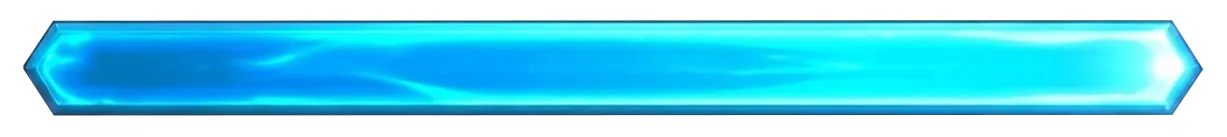
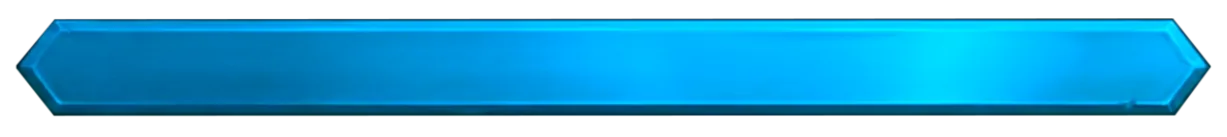
deterministic

diff --git a/crates/shared/src/intent.rs b/crates/shared/src/intent.rs
@@ -36,22 +36,22 @@ fn build_attack_frontier(
     game: &GameState,
     player_id: u16,
     target_owner: u16,
+    border_tiles: &[(u32, u32)],
     rng: &mut PseudoRandom,
     insert_seq_counter: &mut u32,
 ) -> BinaryHeap<PrioritizedTile> {
     let mut to_conquer = BinaryHeap::new();
-    let player = game.player(player_id).expect("Player should exist");
-    for (bx, by) in player.border_tiles.iter().copied() {
-        for (nx, ny) in game.map.neighbors(bx, by) {
+    for (bx, by) in border_tiles.iter().copied() {
+        game.map.for_each_neighbor(bx, by, |nx, ny| {
             if game.map.owner_id(nx, ny) != target_owner {
-                continue;
+                return;
             }
-            let num_owned_by_me = game
-                .map
-                .neighbors(nx, ny)
-                .into_iter()
-                .filter(|(nnx, nny)| game.map.owner_id(*nnx, *nny) == player_id)
-                .count() as u32;
+            let mut num_owned_by_me = 0u32;
+            game.map.for_each_neighbor(nx, ny, |nnx, nny| {
+                if game.map.owner_id(nnx, nny) == player_id {
+                    num_owned_by_me += 1;
+                }
+            });
 
             let terrain = game.map.terrain_type(nx, ny);
             let mag_x2 = match terrain {
@@ -74,7 +74,7 @@ fn build_attack_frontier(
                 x: nx,
                 y: ny,
             });
-        }
+        });
     }
     to_conquer
 }
@@ -195,7 +195,15 @@ fn apply_attack_intent(
             .wrapping_add(intent_index as u64),
     );
     let mut initial_seq = 0;
-    let fresh = build_attack_frontier(game, player_id, target_owner, &mut rng, &mut initial_seq);
+    let border_tiles = game.map.border_tiles_of(player_id);
+    let fresh = build_attack_frontier(
+        game,
+        player_id,
+        target_owner,
+        &border_tiles,
+        &mut rng,
+        &mut initial_seq,
+    );
 
     if fresh.is_empty() {
         if let Some(p) = game.players.iter_mut().find(|p| p.id == player_id) {
@@ -286,16 +294,15 @@ pub fn system_bot_think(
             continue;
         }
 
-        if player.border_tiles.is_empty() {
-            continue;
-        }
+        let border_tiles = game.map.border_tiles_of(bot_id);
+        if border_tiles.is_empty() { continue; }
 
         let mut has_neutral = false;
         let mut player_targets = Vec::new();
 
         // Terra Nullius Pacifism: Scan entire perimeter for ANY empty land
-        for &(bx, by) in &player.border_tiles {
-            for (nx, ny) in game.map.neighbors(bx, by) {
+        for &(bx, by) in &border_tiles {
+            game.map.for_each_neighbor(bx, by, |nx, ny| {
                 let owner = game.map.owner_id(nx, ny);
                 if owner != bot_id {
                     if owner == 0 {
@@ -304,7 +311,7 @@ pub fn system_bot_think(
                         player_targets.push(owner);
                     }
                 }
-            }
+            });
         }
 
         // OpenFront AI Algorithm Port:

diff --git a/crates/shared/src/map.rs b/crates/shared/src/map.rs
@@ -90,6 +90,22 @@ impl GameMap {
         self.state[r] = (self.state[r] & !Self::PLAYER_ID_MASK) | (player_id & Self::PLAYER_ID_MASK);
     }
 
+    /// Visit each 4-connected neighbor (up, down, left, right) without allocations.
+    pub fn for_each_neighbor(&self, x: u32, y: u32, mut f: impl FnMut(u32, u32)) {
+        if x > 0 {
+            f(x - 1, y);
+        }
+        if x + 1 < self.width {
+            f(x + 1, y);
+        }
+        if y > 0 {
+            f(x, y - 1);
+        }
+        if y + 1 < self.height {
+            f(x, y + 1);
+        }
+    }
+
     /// Get 4-connected neighbors (up, down, left, right) of a tile.
     pub fn neighbors(&self, x: u32, y: u32) -> Vec<(u32, u32)> {
         let mut result = Vec::with_capacity(4);
@@ -106,12 +122,13 @@ impl GameMap {
         if self.owner_id(x, y) != player_id {
             return false;
         }
-        for (nx, ny) in self.neighbors(x, y) {
-            if self.owner_id(nx, ny) != player_id {
-                return true;
+        let mut is_border = false;
+        self.for_each_neighbor(x, y, |nx, ny| {
+            if !is_border && self.owner_id(nx, ny) != player_id {
+                is_border = true;
             }
-        }
-        false
+        });
+        is_border
     }
 
     /// Get all border tiles of a specific player.
@@ -139,11 +156,12 @@ impl GameMap {
 
     /// Check if a tile is adjacent to territory owned by `player_id`.
     pub fn is_adjacent_to_player(&self, x: u32, y: u32, player_id: u16) -> bool {
-        for (nx, ny) in self.neighbors(x, y) {
-            if self.owner_id(nx, ny) == player_id {
-                return true;
+        let mut adjacent = false;
+        self.for_each_neighbor(x, y, |nx, ny| {
+            if !adjacent && self.owner_id(nx, ny) == player_id {
+                adjacent = true;
             }
-        }
-        false
+        });
+        adjacent
     }
 }

diff --git a/crates/shared/src/game.rs b/crates/shared/src/game.rs
@@ -106,9 +106,6 @@ impl GameState {
                 p.sum_x = p.sum_x.saturating_sub(x as u64);
                 p.sum_y = p.sum_y.saturating_sub(y as u64);
                 p.tile_count = p.tile_count.saturating_sub(1);
-                if let Some(pos) = p.border_tiles.iter().position(|&t| t == (x, y)) {
-                    p.border_tiles.swap_remove(pos);
-                }
             }
         }
 
@@ -122,42 +119,6 @@ impl GameState {
         }
 
         self.map.set_owner_id(x, y, new_owner);
-
-        // Update border cache without allocations
-        let coords = [
-            (x as i32, y as i32),
-            (x as i32, y as i32 - 1),
-            (x as i32, y as i32 + 1),
-            (x as i32 - 1, y as i32),
-            (x as i32 + 1, y as i32),
-        ];
-
-        let mut updates: Vec<(u16, u32, u32, bool)> = Vec::with_capacity(5);
-        for (cx, cy) in coords {
-            if self.map.is_valid_coord(cx, cy) {
-                let ux = cx as u32;
-                let uy = cy as u32;
-                let owner = self.map.owner_id(ux, uy);
-                if owner != 0 {
-                    let is_border = self.map.is_border_tile(ux, uy, owner);
-                    updates.push((owner, ux, uy, is_border));
-                }
-            }
-        }
-        
-        for (owner, ux, uy, is_border) in updates {
-            if let Some(p) = self.player_mut(owner) {
-                if is_border {
-                    if !p.border_tiles.contains(&(ux, uy)) {
-                        p.border_tiles.push((ux, uy));
-                    }
-                } else {
-                    if let Some(pos) = p.border_tiles.iter().position(|&t| t == (ux, uy)) {
-                        p.border_tiles.swap_remove(pos);
-                    }
-                }
-            }
-        }
     }
 
 }

diff --git a/crates/shared/src/execution.rs b/crates/shared/src/execution.rs
@@ -231,19 +231,19 @@ pub fn system_attack_execution(
                 // Troops were reserved on intent; only drain execution pool per tile (OpenFront).
 
                 // Enqueue new neutral/enemy neighbors that touch our newly acquired tile
-                for (nx, ny) in game.map.neighbors(target_tile.x, target_tile.y) {
+                game.map.for_each_neighbor(target_tile.x, target_tile.y, |nx, ny| {
                     // It must belong to target
                     if game.map.owner_id(nx, ny) != execution.target_owner {
-                        continue;
+                        return;
                     }
 
                     // How many tiles bordering (nx, ny) are owned by the attacker?
                     let mut num_owned_by_me = 0;
-                    for (nnx, nny) in game.map.neighbors(nx, ny) {
+                    game.map.for_each_neighbor(nx, ny, |nnx, nny| {
                         if game.map.owner_id(nnx, nny) == execution.owner_id {
                             num_owned_by_me += 1;
                         }
-                    }
+                    });
 
                     let terrain = game.map.terrain_type(nx, ny);
                     let prio = execution.calc_priority(num_owned_by_me, terrain, tick_now);
@@ -256,7 +256,7 @@ pub fn system_attack_execution(
                         x: nx,
                         y: ny,
                     });
-                }
+                });
 
                 // VALID CONQUEST
                 // Apply change AFTER enqueuing neighbors, mimicking OpenFront's `this._owner.conquer`

diff --git a/crates/client/src/main.rs b/crates/client/src/main.rs
@@ -2954,15 +2954,14 @@ fn system_headless_bot_engine(
     let expand_ratio = bot_state.profile.expand_ratio;
     
     let player = game.player(bot_id).unwrap();
-    if player.border_tiles.is_empty() {
-        return;
-    }
+    let border_tiles = game.map.border_tiles_of(bot_id);
+    if border_tiles.is_empty() { return; }
 
     let mut has_neutral = false;
     let mut player_targets = Vec::new();
 
-    for &(bx, by) in &player.border_tiles {
-        for (nx, ny) in game.map.neighbors(bx, by) {
+    for &(bx, by) in &border_tiles {
+        game.map.for_each_neighbor(bx, by, |nx, ny| {
             let owner = game.map.owner_id(nx, ny);
             if owner != bot_id {
                 if owner == 0 {
@@ -2971,7 +2970,7 @@ fn system_headless_bot_engine(
                     player_targets.push(owner);
                 }
             }
-        }
+        });
     }
 
     let mut bot_rng = PseudoRandom::new(game.seed.wrapping_add(game.tick as u64).wrapping_add(1999));

diff --git a/crates/shared/src/player.rs b/crates/shared/src/player.rs
@@ -41,8 +41,6 @@ pub struct Player {
     pub sum_y: u64,
     /// Number of tiles owned by the player.
     pub tile_count: u32,
-    /// Fast deterministic cache of border tiles.
-    pub border_tiles: Vec<(u32, u32)>,
 }
 
 impl Player {
@@ -60,7 +58,6 @@ impl Player {
             sum_x: 0,
             sum_y: 0,
             tile_count: 0,
-            border_tiles: Vec::with_capacity(128),
         }
     }
 
@@ -78,7 +75,6 @@ impl Player {
             sum_x: 0,
             sum_y: 0,
             tile_count: 0,
-            border_tiles: Vec::with_capacity(128),
         }
     }
 
